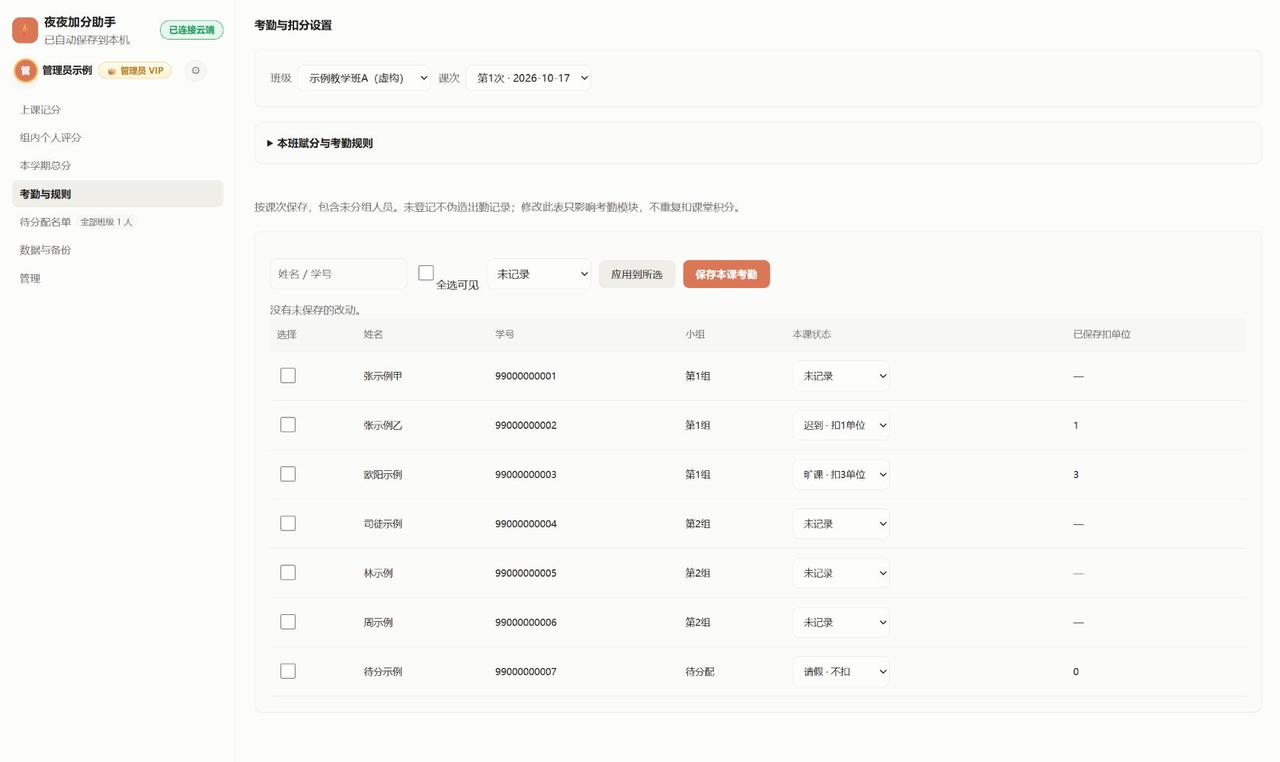
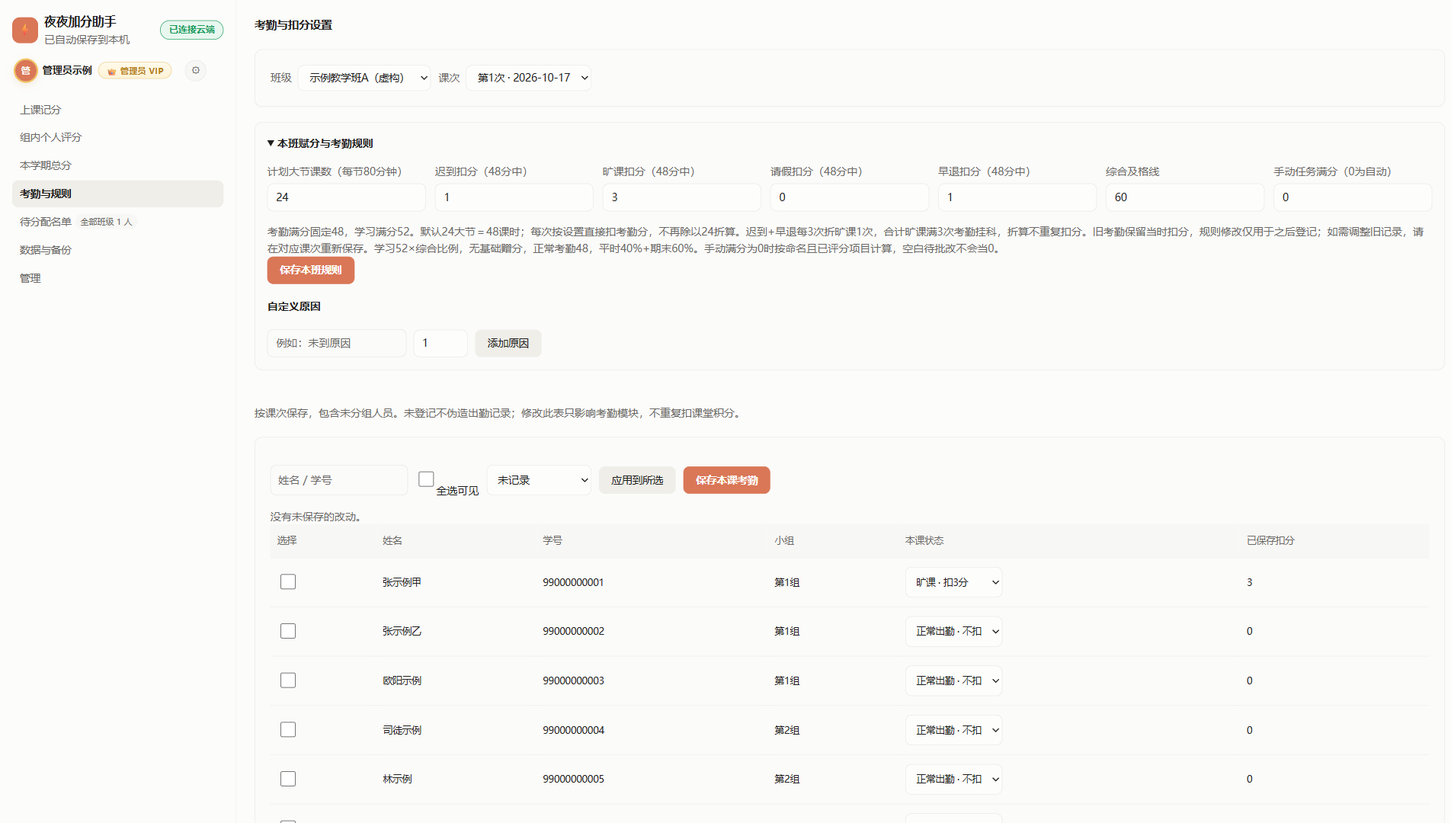
Use floating learning 52 and attendance 48 with absence failure rules

diff --git a/assessment.js b/assessment.js
@@ -49,55 +49,60 @@
       m.rawRank=rank;m.task=taskEvidence(lessons,m,cfg);
       m.bonus=m.groupScore;
       m.performanceRate=m.task.maximum>0?Math.max(0,Math.min(1,(m.task.earned+m.groupScore-m.personal)/m.task.maximum)):0;
-      m.learning=round(40+40*m.performanceRate);
+      m.learning=round(52*m.performanceRate);
       m.confirmation=(cls.foundationChecks||{})[m.key]||'pending';
-      var loss=0,recorded=0;
-      lessons.forEach(function(l){var a=l.attendance&&l.attendance[m.key];if(a){recorded++;loss+=Number(a.loss)||0;}});
+      var loss=0,recorded=0,late=0,early=0,truant=0;
+      lessons.forEach(function(l){var a=l.attendance&&l.attendance[m.key];if(a){recorded++;loss+=Number(a.loss)||0;if(a.status==='late')late++;if(a.status==='early')early++;if(a.status==='truant')truant++;}});
       m.loss=loss;m.recorded=recorded;
-      m.attendance=round(Math.max(0,Math.min(20,20*(cfg.totalLessons-loss)/cfg.totalLessons)));
+      m.lateCount=late;m.earlyCount=early;m.truantCount=truant;
+      m.convertedTruants=Math.floor((late+early)/3);m.effectiveTruants=truant+m.convertedTruants;
+      m.attendanceFailed=m.effectiveTruants>=3;
+      m.attendance=round(Math.max(0,Math.min(48,48-loss)));
       m.ready=m.confirmation==='met'&&m.task.pending===0&&m.task.maximum>0&&m.recorded===lessons.length&&lessons.length>0;
       m.regular=round(m.learning+m.attendance);m.contribution=round(m.regular*.4);
-      m.needed=Math.max(0,Math.ceil(((cfg.passScore-m.contribution)/.6-1e-9)*10)/10);
-      var exam=cls.examScores&&cls.examScores[m.key];m.exam=exam==null?'':exam;m.final=m.exam===''?null:round(m.contribution+m.exam*.6);
+      m.needed=m.attendanceFailed?null:Math.max(0,Math.ceil(((cfg.passScore-m.regular*.4)/.6-1e-9)*10)/10);
+      var exam=cls.examScores&&cls.examScores[m.key];m.exam=exam==null?'':exam;m.final=m.exam===''?null:round(m.regular*.4+m.exam*.6);
     });
     sorted.sort(function(a,b){return b.regular-a.regular||a.rawRank-b.rawRank||String(a.sid||a.name).localeCompare(String(b.sid||b.name));});
     previous=null;rank=0;sorted.forEach(function(m,i){if(i===0||m.regular!==previous)rank=i+1;previous=m.regular;m.rank=rank;});return sorted;
   }
   function options(cfg,value) {
     var statuses=Object.keys(labels).concat((cfg.customRules||[]).map(function(r){return r.id;}));
-    return '<option value="">未记录</option>'+statuses.map(function(status){var loss=deduction(status,cfg);return '<option value="'+esc(status)+'"'+(status===value?' selected':'')+'>'+esc(statusName(status,cfg))+' · '+(loss?'扣'+loss+'单位':'不扣')+'</option>';}).join('')+(value&&!statuses.includes(value)?'<option selected value="'+esc(value)+'">历史原因（保留）</option>':'');
+    return '<option value="">未记录</option>'+statuses.map(function(status){var loss=deduction(status,cfg);return '<option value="'+esc(status)+'"'+(status===value?' selected':'')+'>'+esc(statusName(status,cfg))+' · '+(loss?'扣'+loss+'分':'不扣')+'</option>';}).join('')+(value&&!statuses.includes(value)?'<option selected value="'+esc(value)+'">历史原因（保留）</option>':'');
   }
   function confirmationText(m) {return m.confirmation==='met'?'基础要求已满足':m.confirmation==='makeup'?'待补做':'基础要求待确认';}
+  function attendanceText(m){return '迟到'+m.lateCount+'次 · 早退'+m.earlyCount+'次 · 实际旷课'+m.truantCount+'次 · 折算'+m.convertedTruants+'次 · 合计'+m.effectiveTruants+'次旷课'+(m.attendanceFailed?'；考勤挂科':'');}
+  function neededText(m){return m.attendanceFailed?'考勤挂科，不适用':m.needed>100?'超过100，无法达到':String(m.needed);}
   function renderRank(ctx) {
     var cls=ctx.cls,cfg=settings(cls),ms=rows(cls,ctx.lessons,ctx.raw);
-    ctx.root.innerHTML='<details class="rank-note"><summary>达标赋分说明：正常完成至少60分，名次不决定赋分</summary><p>原始累计 = 全组累计加分 + 个人项目累计分 − 个人扣分，原记录保留。所有课次的首个正确、小组分、值日分持续累计，没有学期奖励5分封顶。综合比例＝（已评项目实得＋全组累计净加分−个人扣分）÷项目满分，限定在0–100%。学习分＝40基础＋40×综合比例，最高80；加考勤0–20得到平时百分制。原始奖励积分不封顶，百分制最高100，不等于课堂只能加100个积分。例：项目80/100＋累计净奖励10→综合90%，学习76＋正常考勤20＝平时96；奖励增至20→平时100。值日只填参与/应到人数，自动5×人数比例，所有汇总随改分、撤销和补录实时重算。</p><p>达成率按本人已评分项目得分/满分计算，每个命名项目满分5；明确0分计入，未批改不当0分且标记待批改。手动基准为'+(cfg.taskTarget||'自动按已评分项目')+'。基础要求由教师确认，不自动把未做任务的学生判定及格；项目未齐、考勤未齐或基础未确认都只显示预估。考勤未记录按正常预估，不伪造签到。平时40%＋期末60%。</p></details><div class="assessment-actions"><button class="btn" id="assessmentGoAttendance">考勤与规则</button><button class="btn" id="assessmentExport">导出综合成绩CSV</button></div><div class="assessment-scroll"><table class="data assessment-table"><thead><tr><th>展示名次</th><th>姓名 / 基础要求</th><th>小组</th><th>当前累计</th><th>学习赋分/80</th><th>考勤/20</th><th>平时分/100</th><th>折合/40</th><th>期末需考/100</th><th>实际期末</th><th>综合/100</th></tr></thead><tbody>'+ms.map(function(m){return '<tr><td>'+m.rank+'</td><td><b>'+esc(m.name)+'</b><small>'+esc(m.sid||m.no||'')+'</small><select class="foundation-check" data-foundation-key="'+esc(m.key)+'" aria-label="'+esc(m.name)+' 基础要求"><option value="pending"'+(m.confirmation==='pending'?' selected':'')+'>待确认</option><option value="met"'+(m.confirmation==='met'?' selected':'')+'>已满足</option><option value="makeup"'+(m.confirmation==='makeup'?' selected':'')+'>待补做</option></select></td><td>'+(m.gno?'第'+m.gno+'组':'待分配')+'</td><td><b>'+m.total+'</b><small>全组 '+m.groupScore+' · 个人项目分 '+m.project+' · 扣 '+m.personal+'</small></td><td>'+m.learning+'<small>任务 '+m.task.earned+'/'+m.task.maximum+' · '+round(m.task.rate*100)+'%<br>累计全组净加分 '+m.bonus+'<br>综合比例 '+round(m.performanceRate*100)+'%'+(m.task.pending?' · '+m.task.pending+'项待批改':'')+(!m.task.maximum?' · 未设置有效任务':'')+'</small></td><td>'+m.attendance+'<small>'+m.recorded+'/'+ctx.lessons.length+'课已登记 · 扣'+m.loss+'单位</small></td><td><b>'+m.regular+'</b>'+(!m.ready?'<small>预估 · '+confirmationText(m)+'</small>':'<small>资料已齐</small>')+'</td><td>'+m.contribution+'</td><td>'+(m.needed>100?'超过100，无法达到':m.needed)+(!m.ready?'<small>预估</small>':'')+'</td><td><input class="assessment-exam" aria-label="'+esc(m.name)+' 实际期末成绩" data-exam-key="'+esc(m.key)+'" type="number" min="0" max="100" step="0.1" value="'+m.exam+'" placeholder="待考"></td><td>'+(m.final==null?'—':m.final)+(!m.ready&&m.final!==null?'<small>待复核</small>':'')+'</td></tr>';}).join('')+'</tbody></table></div><p class="rank-note">正常出勤且基础要求已满足时，平时分最低60；考勤扣分可低于60。零分不自动等于已达标。排名仅展示，不改变他人分数。及格线'+cfg.passScore+'，期末需考向上取到0.1分。含待分配'+ms.length+'人，计划'+cfg.totalLessons+'课。</p>';
+    ctx.root.innerHTML='<details class="rank-note"><summary>平时分说明：学习52＋考勤48，无基础赠分</summary><p>48课时＝24大节，每小节40分钟，每大节80分钟。学习分＝52×clamp((已评项目实得＋全组累计净加分−个人扣分)÷项目满分,0,1)，范围0–52，没有40分基础赠分，也没有60分保底。每个命名且已评分项目满分5，跨课次自动累计；奖励全部累计，不增加项目满分、不设学期5分封顶。</p><p>考勤分＝max(0,48−累计扣分)：默认迟到/早退各扣1，旷课扣3。迟到和早退合计每3次折1次旷课，仅用于次数判定，不再次扣分。实际旷课＋折算旷课达到3次，按本课程规则判考勤挂科；平时及综合数值仅供核对，不因考试分高而解除。原记录与当时扣分保留，自定义原因不猜测为旷课。</p><p>全勤时：表现0%→平时48，80%→89.6，90%→94.8，100%→100。原始积分不限总额，百分制最高100。值日按5×参与/应到自动换算。平时40%＋期末60%，及格线按本班设置，期末目标向上取0.1。考勤挂科时停止显示可及格的期末目标。未批改、基础要求待确认或考勤未齐均显示预估；未登记考勤按全勤预估，不伪造签到。手动任务基准为'+(cfg.taskTarget||'自动按已评分项目')+'。</p></details><div class="assessment-actions"><button class="btn" id="assessmentGoAttendance">考勤与规则</button><button class="btn" id="assessmentExport">导出综合成绩CSV</button></div><div class="assessment-scroll"><table class="data assessment-table"><thead><tr><th>展示名次</th><th>姓名 / 基础要求</th><th>小组</th><th>当前累计</th><th>学习赋分/52</th><th>考勤/48</th><th>平时分/100</th><th>折合/40</th><th>期末需考/100</th><th>实际期末</th><th>综合/100</th></tr></thead><tbody>'+ms.map(function(m){return '<tr><td>'+m.rank+'</td><td><b>'+esc(m.name)+'</b><small>'+esc(m.sid||m.no||'')+'</small><select class="foundation-check" data-foundation-key="'+esc(m.key)+'" aria-label="'+esc(m.name)+' 基础要求"><option value="pending"'+(m.confirmation==='pending'?' selected':'')+'>待确认</option><option value="met"'+(m.confirmation==='met'?' selected':'')+'>已满足</option><option value="makeup"'+(m.confirmation==='makeup'?' selected':'')+'>待补做</option></select></td><td>'+(m.gno?'第'+m.gno+'组':'待分配')+'</td><td><b>'+m.total+'</b><small>全组 '+m.groupScore+' · 个人项目分 '+m.project+' · 扣 '+m.personal+'</small></td><td>'+m.learning+'<small>任务 '+m.task.earned+'/'+m.task.maximum+' · '+round(m.task.rate*100)+'%<br>累计全组净加分 '+m.bonus+'<br>综合比例 '+round(m.performanceRate*100)+'%'+(m.task.pending?' · '+m.task.pending+'项待批改':'')+(!m.task.maximum?' · 未设置有效任务':'')+'</small></td><td>'+m.attendance+'<small>'+m.recorded+'/'+ctx.lessons.length+'课已登记 · 扣'+m.loss+'分<br>'+esc(attendanceText(m))+'</small></td><td><b>'+m.regular+'</b>'+(!m.ready?'<small>预估 · '+confirmationText(m)+'</small>':'<small>资料已齐</small>')+'</td><td>'+m.contribution+'</td><td>'+neededText(m)+(!m.ready?'<small>预估</small>':'')+'</td><td><input class="assessment-exam" aria-label="'+esc(m.name)+' 实际期末成绩" data-exam-key="'+esc(m.key)+'" type="number" min="0" max="100" step="0.1" value="'+m.exam+'" placeholder="待考"></td><td>'+(m.attendanceFailed?'考勤挂科'+(m.final==null?'':'<small>数值参考 '+m.final+'</small>'):m.final==null?'—':m.final)+(!m.ready&&m.final!==null?'<small>待复核</small>':'')+'</td></tr>';}).join('')+'</tbody></table></div><p class="rank-note">学习0–52＋考勤0–48，无60分保底。合计旷课满3次判考勤挂科，不以数值总分代替资格判定。排名仅展示，不改变他人分数。及格线'+cfg.passScore+'，期末需考向上取到0.1分。含待分配'+ms.length+'人，计划'+cfg.totalLessons+'课。</p>';
     ctx.root.querySelector('#assessmentGoAttendance').onclick=ctx.openAttendance;
     ctx.root.querySelectorAll('[data-foundation-key]').forEach(function(input){input.onchange=function(){if(!cls.foundationChecks)cls.foundationChecks={};cls.foundationChecks[input.dataset.foundationKey]=input.value;var m=ms.find(function(m){return m.key===input.dataset.foundationKey;});ctx.log('基础要求确认',cls.name+' · '+m.name+' → '+input.options[input.selectedIndex].textContent);ctx.save();renderRank(ctx);};});
     ctx.root.querySelectorAll('[data-exam-key]').forEach(function(input){input.onchange=function(){var v=input.value===''?null:Number(input.value);if(v!==null&&(!Number.isFinite(v)||v<0||v>100)){ctx.message('期末成绩须为0–100分。');return;}var old=cls.examScores&&cls.examScores[input.dataset.examKey];if(!cls.examScores)cls.examScores={};if(v===null)delete cls.examScores[input.dataset.examKey];else cls.examScores[input.dataset.examKey]=v;ctx.log('期末成绩',cls.name+' · '+ms.find(function(m){return m.key===input.dataset.examKey;}).name+'：'+(old==null?'未填':old)+' → '+(v===null?'未填':v));ctx.save();renderRank(ctx);};});
-    ctx.root.querySelector('#assessmentExport').onclick=function(){ctx.export(cls.name+'_综合成绩.csv',[['展示名次','姓名','学号','小组','原始累计','任务得分','任务满分','待批改数','达成率','累计全组净加分','学习赋分/80','考勤/20','平时分/100','折合/40','期末需考','实际期末','综合/100','基础要求','资料齐全']].concat(ms.map(function(m){return [m.rank,m.name,m.sid||m.no||'',m.gno||'待分配',m.total,m.task.earned,m.task.maximum,m.task.pending,round(m.task.rate*100)+'%',m.bonus,m.learning,m.attendance,m.regular,m.contribution,m.needed>100?'超过100':m.needed,m.exam,m.final==null?'':m.final,confirmationText(m),m.ready?'是':'否，预估待复核'];})));};
+    ctx.root.querySelector('#assessmentExport').onclick=function(){ctx.export(cls.name+'_综合成绩.csv',[['展示名次','姓名','学号','小组','原始累计','任务得分','任务满分','待批改数','达成率','累计全组净加分','学习赋分/52','考勤/48','平时分/100','折合/40','期末需考','实际期末','综合/100','基础要求','资料齐全','考勤判定','迟到次数','早退次数','实际旷课次数','折算旷课次数','合计旷课次数']].concat(ms.map(function(m){return [m.rank,m.name,m.sid||m.no||'',m.gno||'待分配',m.total,m.task.earned,m.task.maximum,m.task.pending,round(m.task.rate*100)+'%',m.bonus,m.learning,m.attendance,m.regular,m.contribution,neededText(m),m.exam,m.attendanceFailed?'考勤挂科（数值参考：'+(m.final==null?'待考':m.final)+'）':m.final==null?'':m.final,confirmationText(m),m.ready?'是':'否，预估待复核',m.attendanceFailed?'考勤挂科':'未触发',m.lateCount,m.earlyCount,m.truantCount,m.convertedTruants,m.effectiveTruants];})));};
   }
   function renderAttendance(ctx) {
     var cls=ctx.cls,cfg=settings(cls),students=roster(cls,ctx.raw),lesson=ctx.lesson;
-    ctx.root.innerHTML='<h2 class="sec-title">考勤与扣分设置</h2><div class="card lesson-bar"><label class="field">班级<select id="attendanceClassSel">'+ctx.classes.map(function(c){return '<option value="'+esc(c.id)+'"'+(c.id===cls.id?' selected':'')+'>'+esc(c.name)+'</option>';}).join('')+'</select></label><label class="field">课次<select id="attendanceLessonSel"'+(!ctx.lessons.length?' disabled':'')+'>'+(!ctx.lessons.length?'<option>暂无课次</option>':ctx.lessons.map(function(l){return '<option value="'+esc(l.id)+'"'+(lesson&&l.id===lesson.id?' selected':'')+'>第'+l.seq+'次 · '+esc(l.date)+'</option>';}).join(''))+'</select></label></div><details class="card assessment-settings"><summary>本班赋分与考勤规则</summary><form id="assessmentSettingsForm"><div class="assessment-settings-grid">'+[['totalLessons','本学期计划课次',1,1000],['late','迟到扣课节单位',0,100],['truant','旷课扣课节单位',0,100],['leave','请假扣课节单位',0,100],['early','早退扣课节单位',0,100],['passScore','综合及格线',0,100],['taskTarget','手动任务满分（0为自动）',0,100000]].map(function(f){return '<label class="field col">'+f[1]+'<input name="'+f[0]+'" type="number" step="1" min="'+f[2]+'" max="'+f[3]+'" value="'+cfg[f[0]]+'" required></label>';}).join('')+'</div><p class="note">考勤分 = max(0, 20 × (计划课次 − 累计扣单位) ÷ 计划课次)。旧考勤保留当时扣单位，规则修改仅用于之后登记；如需调整旧记录，请在对应课次重新保存。学习40基础+40综合表现（项目与长期累计奖励共同折算，不限奖励总积分），正常考勤20，平时40%+期末60%。手动满分为0时按命名且已评分项目计算，空白待批改不会当0。</p><button type="submit" class="btn primary">保存本班规则</button></form><h4>自定义原因</h4><div id="attendanceCustomRules">'+(cfg.customRules||[]).map(function(r){return '<span class="attendance-rule">'+esc(r.name)+' · 扣'+r.loss+'单位 <button class="btn tiny" data-remove-rule="'+esc(r.id)+'" title="停用规则，历史记录保留">停用</button></span>';}).join('')+'</div><form id="attendanceCustomForm" class="btnrow"><input id="attendanceCustomName" aria-label="自定义考勤原因" maxlength="40" placeholder="例如：未到原因" required><input id="attendanceCustomLoss" aria-label="自定义扣单位" type="number" min="0" max="100" step="1" value="1" required><button class="btn" type="submit">添加原因</button></form></details><p class="note">按课次保存，包含未分组人员。未登记不伪造出勤记录；修改此表只影响考勤模块，不重复扣课堂积分。</p>'+(lesson?'<div class="card"><div class="assessment-actions"><input id="attendanceSearch" aria-label="搜索考勤学生" placeholder="姓名 / 学号"><label><input id="attendanceSelectAll" type="checkbox">全选可见</label><select id="attendanceBatchStatus" aria-label="批量考勤状态">'+options(cfg,'')+'</select><button id="attendanceApplyBatch" class="btn">应用到所选</button><button id="attendanceSave" class="btn primary">保存本课考勤</button></div><p id="attendanceDirty" class="note" role="status">没有未保存的改动。</p><div class="assessment-scroll"><table class="data attendance-table"><thead><tr><th>选择</th><th>姓名</th><th>学号</th><th>小组</th><th>本课状态</th><th>已保存扣单位</th></tr></thead><tbody>'+students.map(function(m){var a=lesson.attendance&&lesson.attendance[m.key];return '<tr data-att-row><td><input type="checkbox" data-att-check="'+esc(m.key)+'" aria-label="选择'+esc(m.name)+'"></td><td>'+esc(m.name)+'</td><td>'+esc(m.sid||m.no||'')+'</td><td>'+(m.gno?'第'+m.gno+'组':'待分配')+'</td><td><select data-att-key="'+esc(m.key)+'" aria-label="'+esc(m.name)+' 考勤">'+options(cfg,a&&a.status)+'</select>'+(a&&!labels[a.status]&&!(cfg.customRules||[]).some(function(r){return r.id===a.status;})?'<small>历史原因：'+esc(a.label)+'（保留）</small>':'')+'</td><td>'+(a?a.loss:'—')+'</td></tr>';}).join('')+'</tbody></table></div></div>':'<p class="card">请先在上课记分中新开一课，再登记考勤。</p>');
+    ctx.root.innerHTML='<h2 class="sec-title">考勤与扣分设置</h2><div class="card lesson-bar"><label class="field">班级<select id="attendanceClassSel">'+ctx.classes.map(function(c){return '<option value="'+esc(c.id)+'"'+(c.id===cls.id?' selected':'')+'>'+esc(c.name)+'</option>';}).join('')+'</select></label><label class="field">课次<select id="attendanceLessonSel"'+(!ctx.lessons.length?' disabled':'')+'>'+(!ctx.lessons.length?'<option>暂无课次</option>':ctx.lessons.map(function(l){return '<option value="'+esc(l.id)+'"'+(lesson&&l.id===lesson.id?' selected':'')+'>第'+l.seq+'次 · '+esc(l.date)+'</option>';}).join(''))+'</select></label></div><details class="card assessment-settings"><summary>本班赋分与考勤规则</summary><form id="assessmentSettingsForm"><div class="assessment-settings-grid">'+[['totalLessons','计划大节课数（每节80分钟）',1,1000],['late','迟到扣分（48分中）',0,100],['truant','旷课扣分（48分中）',0,100],['leave','请假扣分（48分中）',0,100],['early','早退扣分（48分中）',0,100],['passScore','综合及格线',0,100],['taskTarget','手动任务满分（0为自动）',0,100000]].map(function(f){return '<label class="field col">'+f[1]+'<input name="'+f[0]+'" type="number" step="1" min="'+f[2]+'" max="'+f[3]+'" value="'+cfg[f[0]]+'" required></label>';}).join('')+'</div><p class="note">考勤满分固定48，学习满分52。默认24大节＝48课时；每次按设置直接扣考勤分，不再除以24折算。迟到+早退每3次折旷课1次，合计旷课满3次考勤挂科，折算不重复扣分。旧考勤保留当时扣分，规则修改仅用于之后登记；如需调整旧记录，请在对应课次重新保存。学习52×综合比例，无基础赠分，正常考勤48，平时40%+期末60%。手动满分为0时按命名且已评分项目计算，空白待批改不会当0。</p><button type="submit" class="btn primary">保存本班规则</button></form><h4>自定义原因</h4><div id="attendanceCustomRules">'+(cfg.customRules||[]).map(function(r){return '<span class="attendance-rule">'+esc(r.name)+' · 扣'+r.loss+'单位 <button class="btn tiny" data-remove-rule="'+esc(r.id)+'" title="停用规则，历史记录保留">停用</button></span>';}).join('')+'</div><form id="attendanceCustomForm" class="btnrow"><input id="attendanceCustomName" aria-label="自定义考勤原因" maxlength="40" placeholder="例如：未到原因" required><input id="attendanceCustomLoss" aria-label="自定义扣分" type="number" min="0" max="100" step="1" value="1" required><button class="btn" type="submit">添加原因</button></form></details><p class="note">按课次保存，包含未分组人员。未登记不伪造出勤记录；修改此表只影响考勤模块，不重复扣课堂积分。</p>'+(lesson?'<div class="card"><div class="assessment-actions"><input id="attendanceSearch" aria-label="搜索考勤学生" placeholder="姓名 / 学号"><label><input id="attendanceSelectAll" type="checkbox">全选可见</label><select id="attendanceBatchStatus" aria-label="批量考勤状态">'+options(cfg,'')+'</select><button id="attendanceApplyBatch" class="btn">应用到所选</button><button id="attendanceSave" class="btn primary">保存本课考勤</button></div><p id="attendanceDirty" class="note" role="status">没有未保存的改动。</p><div class="assessment-scroll"><table class="data attendance-table"><thead><tr><th>选择</th><th>姓名</th><th>学号</th><th>小组</th><th>本课状态</th><th>已保存扣分</th></tr></thead><tbody>'+students.map(function(m){var a=lesson.attendance&&lesson.attendance[m.key];return '<tr data-att-row><td><input type="checkbox" data-att-check="'+esc(m.key)+'" aria-label="选择'+esc(m.name)+'"></td><td>'+esc(m.name)+'</td><td>'+esc(m.sid||m.no||'')+'</td><td>'+(m.gno?'第'+m.gno+'组':'待分配')+'</td><td><select data-att-key="'+esc(m.key)+'" aria-label="'+esc(m.name)+' 考勤">'+options(cfg,a&&a.status)+'</select>'+(a&&!labels[a.status]&&!(cfg.customRules||[]).some(function(r){return r.id===a.status;})?'<small>历史原因：'+esc(a.label)+'（保留）</small>':'')+'</td><td>'+(a?a.loss:'—')+'</td></tr>';}).join('')+'</tbody></table></div></div>':'<p class="card">请先在上课记分中新开一课，再登记考勤。</p>');
     var dirty=false,changed=new Set();
     function mark(){dirty=true;var el=ctx.root.querySelector('#attendanceDirty');if(el)el.textContent='有未保存的考勤改动，请点击保存本课考勤。';}
     function guard(){if(dirty){ctx.message('请先保存本课考勤，再切换班级或课次。');return false;}return true;}
     ctx.root.querySelector('#attendanceClassSel').onchange=function(){if(!guard()){this.value=cls.id;return;}ctx.select(this.value,null);};
     ctx.root.querySelector('#attendanceLessonSel').onchange=function(){if(!guard()){this.value=lesson.id;return;}ctx.select(cls.id,this.value);};
-    ctx.root.querySelector('#assessmentSettingsForm').onsubmit=function(e){e.preventDefault();if(!guard())return;var next=Object.assign({},cfg);for(var name of ['totalLessons','late','truant','leave','early','passScore','taskTarget']){var input=this.elements.namedItem(name),v=Number(input.value);if(!Number.isInteger(v)||v<Number(input.min)||v>Number(input.max)){ctx.message('请填写范围内的整数。');return;}next[name]=v;}cls.assessmentSettings=next;cfg=next;ctx.log('考勤规则',cls.name+' · 计划'+next.totalLessons+'课；迟到'+next.late+'，旷课'+next.truant+'，请假'+next.leave+'，早退'+next.early+'单位；及格线'+next.passScore);ctx.save();ctx.message('本班规则已保存。');};
-    ctx.root.querySelector('#attendanceCustomForm').onsubmit=function(e){e.preventDefault();if(!guard())return;var name=ctx.root.querySelector('#attendanceCustomName').value.trim(),loss=Number(ctx.root.querySelector('#attendanceCustomLoss').value);if(!name||name.length>40||!Number.isInteger(loss)||loss<0||loss>100||Object.keys(labels).some(function(s){return labels[s]===name;})||(cfg.customRules||[]).some(function(r){return r.name===name;})||(cfg.customRules||[]).length>=20){ctx.message('原因须唯一，最多20项，扣单位为0–100整数。');return;}var next=Object.assign({},cfg,{customRules:(cfg.customRules||[]).concat([{id:'custom_'+Date.now().toString(36),name:name,loss:loss}])});cls.assessmentSettings=next;ctx.log('考勤规则',cls.name+' · 新增'+name+'：扣'+loss+'单位');ctx.save();renderAttendance(ctx);};
+    ctx.root.querySelector('#assessmentSettingsForm').onsubmit=function(e){e.preventDefault();if(!guard())return;var next=Object.assign({},cfg);for(var name of ['totalLessons','late','truant','leave','early','passScore','taskTarget']){var input=this.elements.namedItem(name),v=Number(input.value);if(!Number.isInteger(v)||v<Number(input.min)||v>Number(input.max)){ctx.message('请填写范围内的整数。');return;}next[name]=v;}cls.assessmentSettings=next;cfg=next;ctx.log('考勤规则',cls.name+' · 计划'+next.totalLessons+'课；迟到'+next.late+'，旷课'+next.truant+'，请假'+next.leave+'，早退'+next.early+'分；及格线'+next.passScore);ctx.save();ctx.message('本班规则已保存。');};
+    ctx.root.querySelector('#attendanceCustomForm').onsubmit=function(e){e.preventDefault();if(!guard())return;var name=ctx.root.querySelector('#attendanceCustomName').value.trim(),loss=Number(ctx.root.querySelector('#attendanceCustomLoss').value);if(!name||name.length>40||!Number.isInteger(loss)||loss<0||loss>100||Object.keys(labels).some(function(s){return labels[s]===name;})||(cfg.customRules||[]).some(function(r){return r.name===name;})||(cfg.customRules||[]).length>=20){ctx.message('原因须唯一，最多20项，扣分为0–100整数。');return;}var next=Object.assign({},cfg,{customRules:(cfg.customRules||[]).concat([{id:'custom_'+Date.now().toString(36),name:name,loss:loss}])});cls.assessmentSettings=next;ctx.log('考勤规则',cls.name+' · 新增'+name+'：扣'+loss+'分');ctx.save();renderAttendance(ctx);};
     ctx.root.querySelectorAll('[data-remove-rule]').forEach(function(b){b.onclick=function(){if(!guard())return;cls.assessmentSettings=Object.assign({},cfg,{customRules:(cfg.customRules||[]).filter(function(r){return r.id!==b.dataset.removeRule;})});ctx.log('考勤规则',cls.name+' · 停用自定义原因，历史保留');ctx.save();renderAttendance(ctx);};});
     if(!lesson)return;
     ctx.root.querySelector('#attendanceSearch').oninput=function(){var q=this.value.trim().toLowerCase();ctx.root.querySelectorAll('[data-att-row]').forEach(function(tr){tr.hidden=!tr.textContent.toLowerCase().includes(q);});};
     ctx.root.querySelector('#attendanceSelectAll').onchange=function(){var checked=this.checked;ctx.root.querySelectorAll('[data-att-row]').forEach(function(tr){if(!tr.hidden)tr.querySelector('[data-att-check]').checked=checked;});};
     ctx.root.querySelectorAll('[data-att-key]').forEach(function(input){input.onchange=function(){changed.add(input.dataset.attKey);mark();};});
     ctx.root.querySelector('#attendanceApplyBatch').onclick=function(){var value=ctx.root.querySelector('#attendanceBatchStatus').value,count=0;ctx.root.querySelectorAll('[data-att-check]:checked').forEach(function(check){var tr=check.closest('tr');if(!tr.hidden){tr.querySelector('[data-att-key]').value=value;changed.add(check.dataset.attCheck);count++;}});if(count)mark();else ctx.message('请先选择学生。');};
-    ctx.root.querySelector('#attendanceSave').onclick=function(){if(!dirty){ctx.message('没有考勤改动需要保存。');return;}if(!lesson.attendance)lesson.attendance={};var current=settings(cls),details=[];ctx.root.querySelectorAll('[data-att-key]').forEach(function(input){var k=input.dataset.attKey;if(!changed.has(k))return;var old=lesson.attendance[k],status=input.value,m=students.find(function(m){return m.key===k;});if(status){lesson.attendance[k]={status:status,label:statusName(status,current),loss:deduction(status,current),updatedAt:new Date().toISOString()};}else delete lesson.attendance[k];details.push(m.name+'：'+(old?old.label:'未记录')+' → '+(status?statusName(status,current)+'（扣'+deduction(status,current)+'单位）':'未记录'));});ctx.log('考勤',cls.name+' · 第'+lesson.seq+'次 · '+lesson.date+' · '+details.join('；'));ctx.save();dirty=false;ctx.message('本课考勤已保存，平时分已实时重算。');renderAttendance(ctx);};
+    ctx.root.querySelector('#attendanceSave').onclick=function(){if(!dirty){ctx.message('没有考勤改动需要保存。');return;}if(!lesson.attendance)lesson.attendance={};var current=settings(cls),details=[];ctx.root.querySelectorAll('[data-att-key]').forEach(function(input){var k=input.dataset.attKey;if(!changed.has(k))return;var old=lesson.attendance[k],status=input.value,m=students.find(function(m){return m.key===k;});if(status){lesson.attendance[k]={status:status,label:statusName(status,current),loss:deduction(status,current),updatedAt:new Date().toISOString()};}else delete lesson.attendance[k];details.push(m.name+'：'+(old?old.label:'未记录')+' → '+(status?statusName(status,current)+'（扣'+deduction(status,current)+'分）':'未记录'));});ctx.log('考勤',cls.name+' · 第'+lesson.seq+'次 · '+lesson.date+' · '+details.join('；'));ctx.save();dirty=false;ctx.message('本课考勤已保存，平时分已实时重算。');renderAttendance(ctx);};
     ctx.isDirty=function(){return dirty;};
   }
   function printHtml(cls,lessons,raw) {
     var ms=rows(cls,lessons,raw);
-    return '<h2>平时赋分与期末测算</h2><p>达标赋分：学习40基础＋40综合表现（全部累计奖励参与），考勤20；平时40%＋期末60%。名次只展示，未确认/未批改/考勤未齐为预估。</p><table><thead><tr><th>名次</th><th>姓名</th><th>学号</th><th>当前累计</th><th>学习/80</th><th>考勤/20</th><th>平时/100</th><th>折合/40</th><th>期末需考</th><th>实际期末</th><th>综合</th><th>基础要求/状态</th></tr></thead><tbody>'+ms.map(function(m){return '<tr><td>'+m.rank+'</td><td>'+esc(m.name)+'</td><td>'+esc(m.sid||m.no||'')+'</td><td>'+m.total+'</td><td>'+m.learning+'</td><td>'+m.attendance+'</td><td>'+m.regular+'</td><td>'+m.contribution+'</td><td>'+(m.needed>100?'超过100':m.needed)+'</td><td>'+m.exam+'</td><td>'+(m.final==null?'—':m.final)+'</td><td>'+esc(confirmationText(m))+(m.ready?' · 已齐':' · 预估')+'</td></tr>';}).join('')+'</tbody></table>';
+    return '<h2>平时赋分与期末测算</h2><p>学习0–52＋考勤0–48，无基础赠分；迟到/早退合计3次折旷课1次，合计旷课3次考勤挂科，折算不重复扣分；平时40%＋期末60%。名次只展示，未确认/未批改/考勤未齐为预估。</p><table><thead><tr><th>名次</th><th>姓名</th><th>学号</th><th>当前累计</th><th>学习/52</th><th>考勤/48</th><th>平时/100</th><th>折合/40</th><th>期末需考</th><th>实际期末</th><th>综合</th><th>基础要求/状态</th></tr></thead><tbody>'+ms.map(function(m){return '<tr><td>'+m.rank+'</td><td>'+esc(m.name)+'</td><td>'+esc(m.sid||m.no||'')+'</td><td>'+m.total+'</td><td>'+m.learning+'</td><td>'+m.attendance+'</td><td>'+m.regular+'</td><td>'+m.contribution+'</td><td>'+(neededText(m))+'</td><td>'+m.exam+'</td><td>'+(m.attendanceFailed?'考勤挂科'+(m.final==null?'':'<small>数值参考 '+m.final+'</small>'):m.final==null?'—':m.final)+'</td><td>'+esc(confirmationText(m))+(m.ready?' · 已齐':' · 预估')+'<br>'+esc(attendanceText(m))+'</td></tr>';}).join('')+'</tbody></table>';
   }
   root.JFDT_ASSESSMENT={printHtml:printHtml,taskEvidence:taskEvidence,key:key,settings:settings,roster:roster,rows:rows,deduction:deduction,renderRank:renderRank,renderAttendance:renderAttendance};
 })(typeof window==='undefined'?globalThis:window);

diff --git a/docs/使用指南.md b/docs/使用指南.md
@@ -219,48 +219,23 @@
 ## 计分更新（2026-10-17，覆盖上文旧公式）
 个人项目评价现在自动进入个人总分；个人总分=全组累计加分+个人项目累计分−个人扣分。全组小组分上限5，每名组员都获得全组分；个人项目分只属于本人，不叠加到全组排行。记分表姓名下显示本节项目、全组和个人合计。撤销前可看具体班级/课次/对象/数值，并确认；误撤销可点击重做，继续新记分后重做分支清空。旧制10分历史不自动截断。
 
-## 达标赋分规则（当前正式规则）
+## 当前正式规则：学习52＋考勤48（无基础赠分）
 
-名次只用于展示，**不参与赋分计算**。全班都达到标准时可以一起得高分，某人加分不会挤低他人的赋分。
+48课时＝24大节，每小节40分钟、每大节80分钟。原40基础＋40表现＋20考勤及正常保底60的模型已废止，不再白送基础分。
 
-- 原始累计继续保留：全组累计加分＋个人项目累计分−个人扣分，不重写旧积分。
-- 任务达成率＝本人已评分的命名项目得分÷这些项目满分，每个项目满分5。明确0分计入分母，空白/未批改不当0分，但显示待批改并保持预估状态。可设置班级固定任务满分基准；禁止用班内最高分或名次替代满分。
-- 全学期的首个正确、小组分、值日分全部累计，减去手机未入袋扣分，作为全组累计净加分；每位组员获得该组净加分，不设学期奖励5分上限。个人扣分只计算一次。
-- **综合比例＝clamp((已评项目实得＋全组累计净加分−个人扣分)÷项目满分，0，1)**；**学习分＝40＋40×综合比例**，范围40～80。项目满分随已评分项目自动累计，原始奖励不限总积分；最终平时百分制最高100。没有有效任务满分时保持预估，不凭奖励猜测达成率。
-- **平时分＝学习分＋考勤分（0～20）**。正常出勤、无额外奖惩：达成100%→100，80%→92，60%→84，0%→60。考勤扣分可以低于60。
-- 基础要求须由教师确认：待确认／已满足／待补做。没有任务证据、待批改、未确认基础要求、考勤尚未登记齐时，一律标为“预估”，不会自动认定学生已完成实训或及格。未记录考勤按正常预估，不伪造签到。
-- 资料齐全条件：基础已满足、有有效任务满分、命名项目无待批改、每个已录入课次均有本人的考勤记录。实际期末已填但资料未齐时综合分也须待复核。
-- 平时按40%折合，期末60%；达到及格线所需期末＝max(0,(及格线−平时折合)/0.6)，按0.1向上取整。超过100明确提示。
-- 规则显示、综合CSV、打印PDF、云端保存使用同一模型。基础确认按学生稳定学号保存；课次/项目/原始成绩/旧考勤不因改模型而改写。
+- 每个命名且已评分的个人项目列满分5，跨课次自动累计；明确0计入满分，空白待批改不作0。手动任务满分保持0即自动。
+- 项目达成率＝项目实得÷项目满分；综合比例＝clamp((项目实得＋全组累计净加分−个人扣分)÷项目满分,0,1)。奖励全部累计，没有学期5分封顶，奖励不增加项目满分，扣分不重复计算。
+- **学习分＝52×综合比例，0～52；考勤分＝max(0,48−累计考勤扣分)，0～48；平时分＝两者相加，0～100。** 全勤但学习0为48；全勤且表现80%为89.6、90%为94.8、100%为100。原始积分仍可超过100，不重写。
+- 默认迟到扣1、早退扣1、旷课扣3，直接从48中扣，不再按24比例折算。迟到＋早退合计每3次折1次旷课，保留不足3次的余数；实际旷课＋折算旷课达到3次，**按本课程规则考勤挂科**。折算仅用于次数判定，已经扣过的迟到/早退不再扣一次旷课分。
+- 例：迟到2次＋早退1次 → 扣3，考勤45，折旷课1次；实际旷课2次再加这3次迟到/早退 → 扣9，考勤39，合计旷课3次，触发挂科；9次迟到同样触发。即使数值总分高，不能用考试分解除考勤挂科。
+- 实际记录按课次保存，历史扣分快照不重写；自定义原因仅按原记录扣分，不猜测成旷课。考勤更正后自动重算次数和判定，不覆盖原始成绩。规则调整不代表校级政策，由教师核对本课程要求。
+- 未批改、基础要求未确认、考勤未齐时仍显示预估，未登记考勤按全勤估计，不伪造签到。“基础要求确认”只用于资料状态，不赠分。
+- 平时40%＋期末60%，综合及格线默认60。未触发考勤挂科时，期末需考=max(0,(及格线−平时×0.4)/0.6)，向上取到0.1。考勤挂科显示“不适用”，综合数值只供核对，明确显示挂科状态。实际考试空白为待考，0分是有效分数。
 
-![达标赋分与平时分](screenshots/08-rankings.png)
+### 自动换算与课堂激励
 
-1. 进入“本学期总分”，查看原始累计、任务得分/满分、达成率、累计全组净加分、学习赋分、考勤、平时分与期末需考。
-2. 在学生姓名下确认基础要求。只有教师核实必要实训/补做与出勤要求后才选择“已满足”，不要因为预估分达到60就直接确认。
-3. 项目必须命名。未批改保持空白；确实未完成并已评定才填0。不得为了消除待批改提示而批量写0。
-4. 通常保持自动满分。若采用统一固定目标，在“考勤与规则→本班赋分与考勤规则”设置手动任务满分；各班独立，改变只重算派生分，不改旧积分。
-5. 导出综合成绩CSV或打印PDF，包含基础要求和预估状态。正式成绩仍由教师复核。
+教师只录项目、奖励、扣分、值日人数和考勤，项目满分、学期累计、综合比例、平时分、折合分、期末需考自动更新。未触及上限时，项目满分100的每1原始积分影响0.52平时分；满分200时影响0.26。项目越来越多，单次影响变小，长期表现更平滑，但未来成绩和考勤变化仍会改变期末目标。
 
-![考勤与规则](screenshots/15-attendance.png)
+正常全勤时，项目80/100＋净奖励10 → 学习46.8＋考勤48＝平时94.8，折合37.9，期末目标按页面同一舍入口径测算。全勤学习0 → 平时48；不再保底60。平时80/90/100对应期末需考46.7/40/33.4。期末目标只按当前记录预测，未齐资料不是已保证及格。
 
-按班级、课次登记考勤；单人选择或搜索后勾选批量应用，最后点击保存。未保存时阻止误切页面。历史考勤保留扣单位快照，修改规则仅用于后续登记；修改旧扣分请在原课次重新保存。停用自定义原因不删除历史。
-
-
-## 只录原始分数，系统实时换算
-
-默认按每个命名且已评分的项目列自动累计满分，每列5分，跨课次相加，不用教师手填学期满分。“手动任务满分”保持0。明确0会计入满分，空白待批改暂不计入且显示预估；空项目列不算任务。
-
-首个正确、整组分、值日分不增加项目满分，而是累计为额外净积分参与换算。手机扣分作用于全组，个人扣分只作用于本人，考勤单独计算。当前值日按人数比例得出全组共同分，没有逐人参与识别。
-
-课堂可重点展示“期末需考/100”：按平时40%、期末60%、及格60，平时84→期末44，平时92→38.7，平时96→36，平时100→33.4。奖励在未达上限时可降低期末目标；未来新增项目、扣分或考勤会更新目标，预估不代表已保证及格。
-
-随着项目满分累计增加，同一原始积分对平时分的影响逐渐减小：满分100时每1积分约影响0.4平时分，满分200时约0.2。长期表现更平滑，但项目表现改变时成绩仍会变化。
-
-1. **个人项目分**：给项目命名并填每人0–5分；4分自动代表该项目80%达成。未批改留空，确实未得分填0。
-2. **课堂奖励**：首个正确、小组分照常录入，所有课次持续累计，没有学期奖励5分封顶。
-3. **值日人数**：在绿色值日格填写参与人数，应到默认本组人数，也可修正。例如4/5人自动4分、3/4人自动3.75分、全员参与5分。更换课次后独立记录。旧的手填值日分保留，只有填入人数才按新规则换算；不反推历史人数。
-4. **考勤**：按课次选择状态并保存；计划课次、迟到/旷课/请假/早退扣单位可在本班规则中设置。历史扣单位保留快照。
-
-网站自动更新项目达成率、综合比例、学期原始累计、学习赋分、考勤分、平时百分制、折合40分和期末需考；修改、补录、撤销、重做和云端恢复后均重新计算。值日撤销同时恢复人数和分数，JSON云备份保存两者；本课CSV和打印也展示人数。基础资格仍由教师确认，未批改或考勤未齐时显示预估。
-
-算例：项目实得80/100，累计净奖励10，无个人扣分 → 综合90%，学习76，正常考勤20 → 平时96，折合38.4，综合及格60所需期末36.0。奖励增到20 → 平时100；随后即使奖励继续增加，原始积分继续保留，百分制最高100。新增更多项目后，系统使用新的累计满分重新换算，不需教师手算。
+值日仍自动按5×参与人数÷应到人数计算，两位小数；应到默认小组人数，可调整。4/5=4，3/4=3.75；现行值日给该组每个人同分，不识别个人参与者。旧手填值日分保留，不反推人数。课堂分和值日撤销/重做恢复原值及人数；个人项目在原表改分。所有数据随账号云同步，CSV和打印使用同一派生模型。

diff --git a/项目交接.md b/项目交接.md
@@ -1,3 +1,5 @@
+当前有效规则：学习52＋考勤48，无基础赠分；迟到/早退每3次折旷课1次，含折算满3次考勤挂科。此前保底60等说明均为历史。
+
 当前有效规则见末尾“长期奖励与值日自动换算”。之前各轮记录为历史，旧奖励±5封顶已作废。
 
 补充确认：用户以“期末需考多少及格”激励课堂参与。默认项目满分按命名且已评分项目列×5跨课次自动累计，手动基准保持0。补充自动分母跨课次与奖励降低期末目标的回归；文档说明分数逐渐平滑但非固定、百分制封顶及预估边界。此轮只改文档与测试，不改线上业务代码或生产数据。
@@ -223,3 +225,30 @@ Pages：https://zcq19991029.github.io/ye-ye-score-helper/
 - 自动重算达成率、学期累计、学习赋分、考勤、平时、折合和期末目标。无账号或数据库结构迁移，不改真实名单、积分、考勤和资格确认。旧bonusCap仅兼容存档，不再参与计算或提供设置入口。
 - 本轮25公式、110前后端、29后端、21密码、23打包，共208项通过。覆盖奖励超过5、同比例规模、3/4=3.75、4/5=4、非法人数、元数据撤销/重做、独立浏览器恢复。
 - 课堂气泡原项目未改写/未发布；按用户允许的原窗口交接方式，详细提示词已更新最新公式和值日要求。发布证据存私有迁移记录。
+
+## 2026-10-17 学习52与考勤48规则替换
+
+## 当前正式规则：学习52＋考勤48（无基础赠分）
+
+48课时＝24大节，每小节40分钟、每大节80分钟。原40基础＋40表现＋20考勤及正常保底60的模型已废止，不再白送基础分。
+
+- 每个命名且已评分的个人项目列满分5，跨课次自动累计；明确0计入满分，空白待批改不作0。手动任务满分保持0即自动。
+- 项目达成率＝项目实得÷项目满分；综合比例＝clamp((项目实得＋全组累计净加分−个人扣分)÷项目满分,0,1)。奖励全部累计，没有学期5分封顶，奖励不增加项目满分，扣分不重复计算。
+- **学习分＝52×综合比例，0～52；考勤分＝max(0,48−累计考勤扣分)，0～48；平时分＝两者相加，0～100。** 全勤但学习0为48；全勤且表现80%为89.6、90%为94.8、100%为100。原始积分仍可超过100，不重写。
+- 默认迟到扣1、早退扣1、旷课扣3，直接从48中扣，不再按24比例折算。迟到＋早退合计每3次折1次旷课，保留不足3次的余数；实际旷课＋折算旷课达到3次，**按本课程规则考勤挂科**。折算仅用于次数判定，已经扣过的迟到/早退不再扣一次旷课分。
+- 例：迟到2次＋早退1次 → 扣3，考勤45，折旷课1次；实际旷课2次再加这3次迟到/早退 → 扣9，考勤39，合计旷课3次，触发挂科；9次迟到同样触发。即使数值总分高，不能用考试分解除考勤挂科。
+- 实际记录按课次保存，历史扣分快照不重写；自定义原因仅按原记录扣分，不猜测成旷课。考勤更正后自动重算次数和判定，不覆盖原始成绩。规则调整不代表校级政策，由教师核对本课程要求。
+- 未批改、基础要求未确认、考勤未齐时仍显示预估，未登记考勤按全勤估计，不伪造签到。“基础要求确认”只用于资料状态，不赠分。
+- 平时40%＋期末60%，综合及格线默认60。未触发考勤挂科时，期末需考=max(0,(及格线−平时×0.4)/0.6)，向上取到0.1。考勤挂科显示“不适用”，综合数值只供核对，明确显示挂科状态。实际考试空白为待考，0分是有效分数。
+
+### 自动换算与课堂激励
+
+教师只录项目、奖励、扣分、值日人数和考勤，项目满分、学期累计、综合比例、平时分、折合分、期末需考自动更新。未触及上限时，项目满分100的每1原始积分影响0.52平时分；满分200时影响0.26。项目越来越多，单次影响变小，长期表现更平滑，但未来成绩和考勤变化仍会改变期末目标。
+
+正常全勤时，项目80/100＋净奖励10 → 学习46.8＋考勤48＝平时94.8，折合37.9，期末目标按页面同一舍入口径测算。全勤学习0 → 平时48；不再保底60。平时80/90/100对应期末需考46.7/40/33.4。期末目标只按当前记录预测，未齐资料不是已保证及格。
+
+值日仍自动按5×参与人数÷应到人数计算，两位小数；应到默认小组人数，可调整。4/5=4，3/4=3.75；现行值日给该组每个人同分，不识别个人参与者。旧手填值日分保留，不反推人数。课堂分和值日撤销/重做恢复原值及人数；个人项目在原表改分。所有数据随账号云同步，CSV和打印使用同一派生模型。
+
+仅改派生模型、页面、CSV与打印说明，不改原始名单、成绩、考勤快照。基础确认不再关联基础赠分；挂科为按用户规则派生显示，不写回考试成绩。
+
+本轮检查：公式37、前后端112、后端29、密码21、打包23，共222项通过。虚构浏览器确认学习52、考勤48、2次实际加1次折算触发挂科，CSV与打印一致；正式账号仅完整备份，不写测试成绩或考勤。
